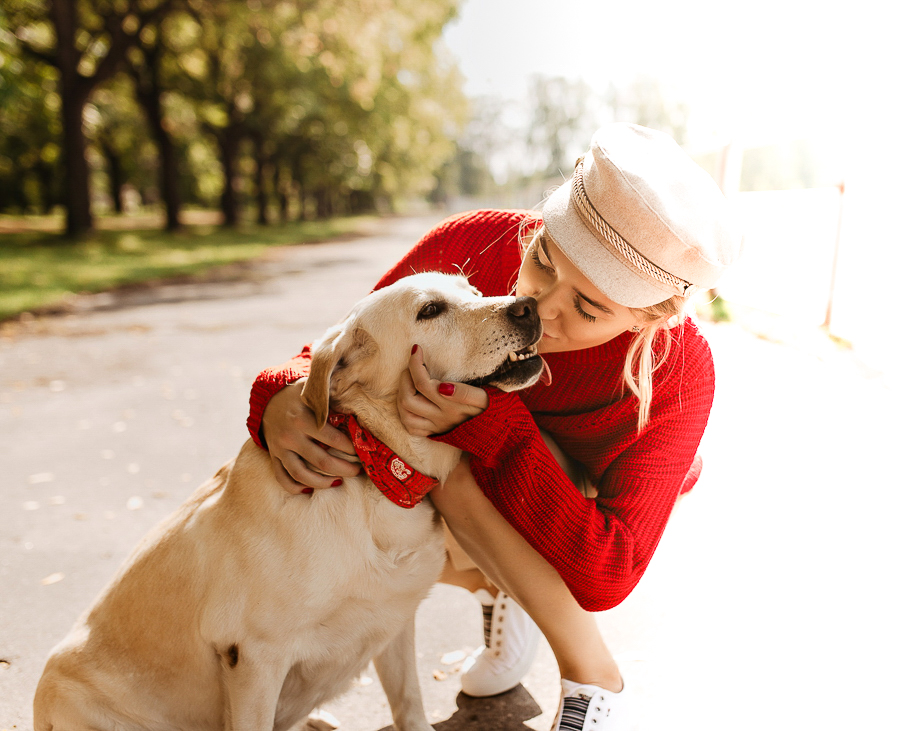
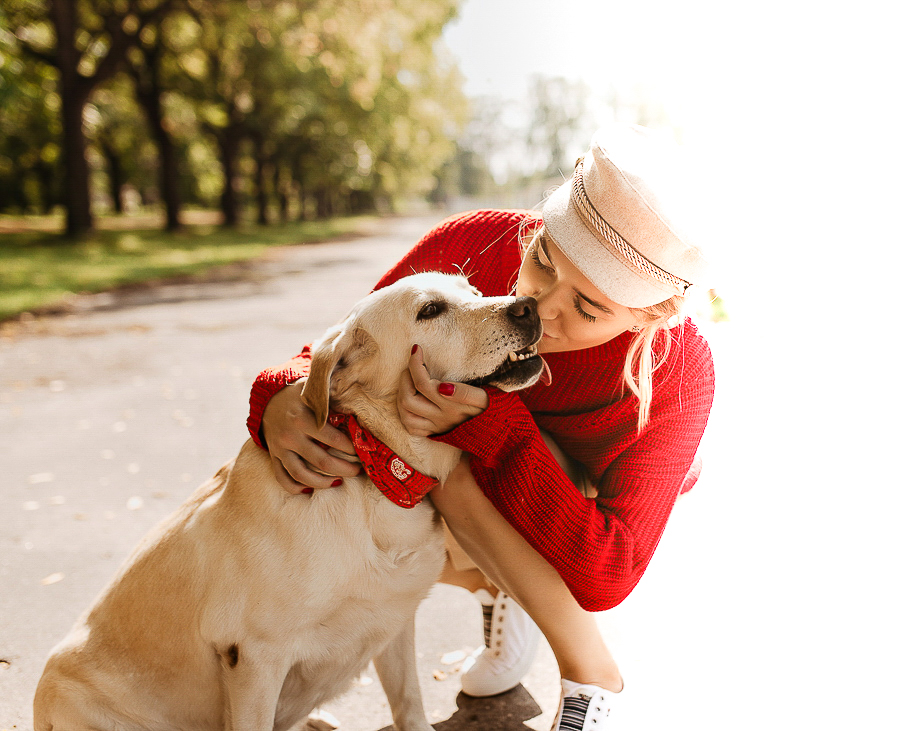
pridanie glyphiconu srdca, úprava fotky lovely2, štýlovanie sekcie adopcia - responzivita

diff --git a/index.html b/index.html
@@ -156,7 +156,7 @@
                             ~ O adopcii ~
                         </h1>
     
-                        <img src="./img/glyph/CAT1.png" alt="">
+                        <img src="./img/glyph/DOG1.png" alt="">
     
                         <p>Lorem ipsum, dolor sit amet consectetur adipisicing elit. Officiis 
                             beatae sint fugiat. Rem ad libero repellat ipsa. Nobis dolorem sunt, 
@@ -164,13 +164,13 @@
                         </p>
                     
                     
-                    <img src="./img/glyph/DOG1.png" alt="">
+                    <img src="./img/glyph/CAT1.png" alt="">
                     <p> Consectetur adipisicing elit. Dignissimos 
                         quidem placeat suscipit numquam perferendis provident tempore! Est 
                         laborum animi quod natus cum reiciendis
                     </p>
 
-                    <img src="./img/glyph/DOG1.png" alt="">
+                    <img src="./img/glyph/HEART1.png" alt="">
                     <p> Lorem ipsum dolor sit amet consectetur adipisicing elit. Incidunt provident 
                         consequatur qui eum, blanditiis laudantium voluptates pariatur fuga? Dolorem 
                         repudiandae eaque expedita ullam incidunt inventore cum amet, beatae velit magnam.

diff --git a/styles.css b/styles.css
@@ -561,7 +561,7 @@ body{
     .adopciaWrapper{
     
         /* max-width: 1600px; */
-        max-width: 1910px;
+        max-width: 2000px;
         min-width: 1400px;
         height: 731px;
         /* border: 1px red solid; */
@@ -582,12 +582,10 @@ body{
     }
     
     #adopciaText > p {
-        font-size: 15PX;
-        padding-left: 166px;
-        padding-right: 100px;
-        padding-bottom: 85px;
-        padding-top: 10px;
+        font-size: 20px;
+        padding: 7px 90px 68px 5px;
         text-align: justify;
+        /* border: 1px solid yellow; */
 
     
         
@@ -599,9 +597,10 @@ body{
         position: absolute;
         transform: scale(1.5);
         margin-top: 30px;
-        margin-left: -18px;
+        margin-left: -118px;
         padding: 6px;
-        border: 5px orangered solid;
+        /* border: 2px #389cfc solid; */
+        background-color: rgb(255, 231, 223);
     }
     
     
@@ -612,7 +611,6 @@ body{
         display: block;
         /* border: 1px red solid; */
         padding-top: 10px;
-        padding-left: 161px;
         font-size: 60px;
         margin-top: 20px;
     }
